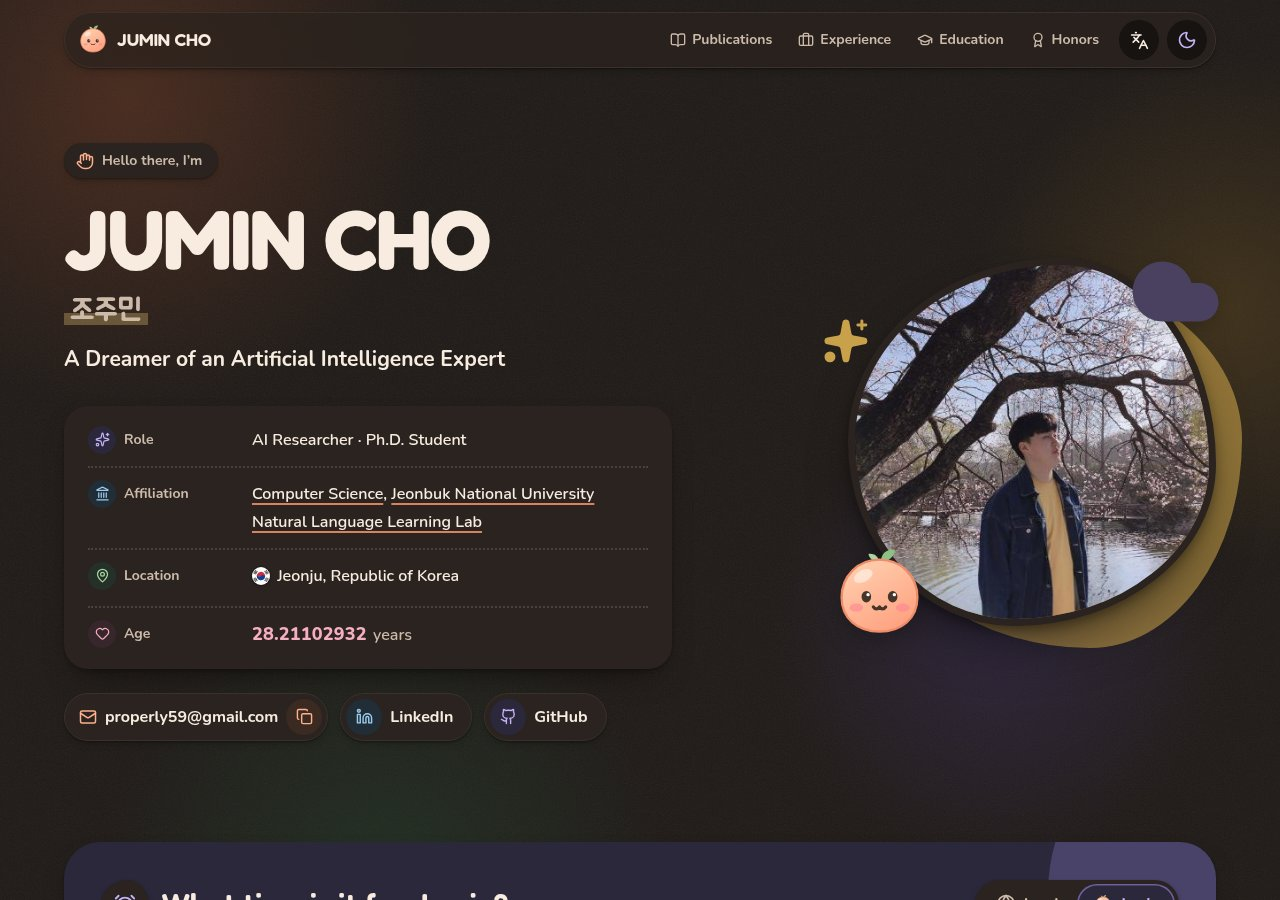
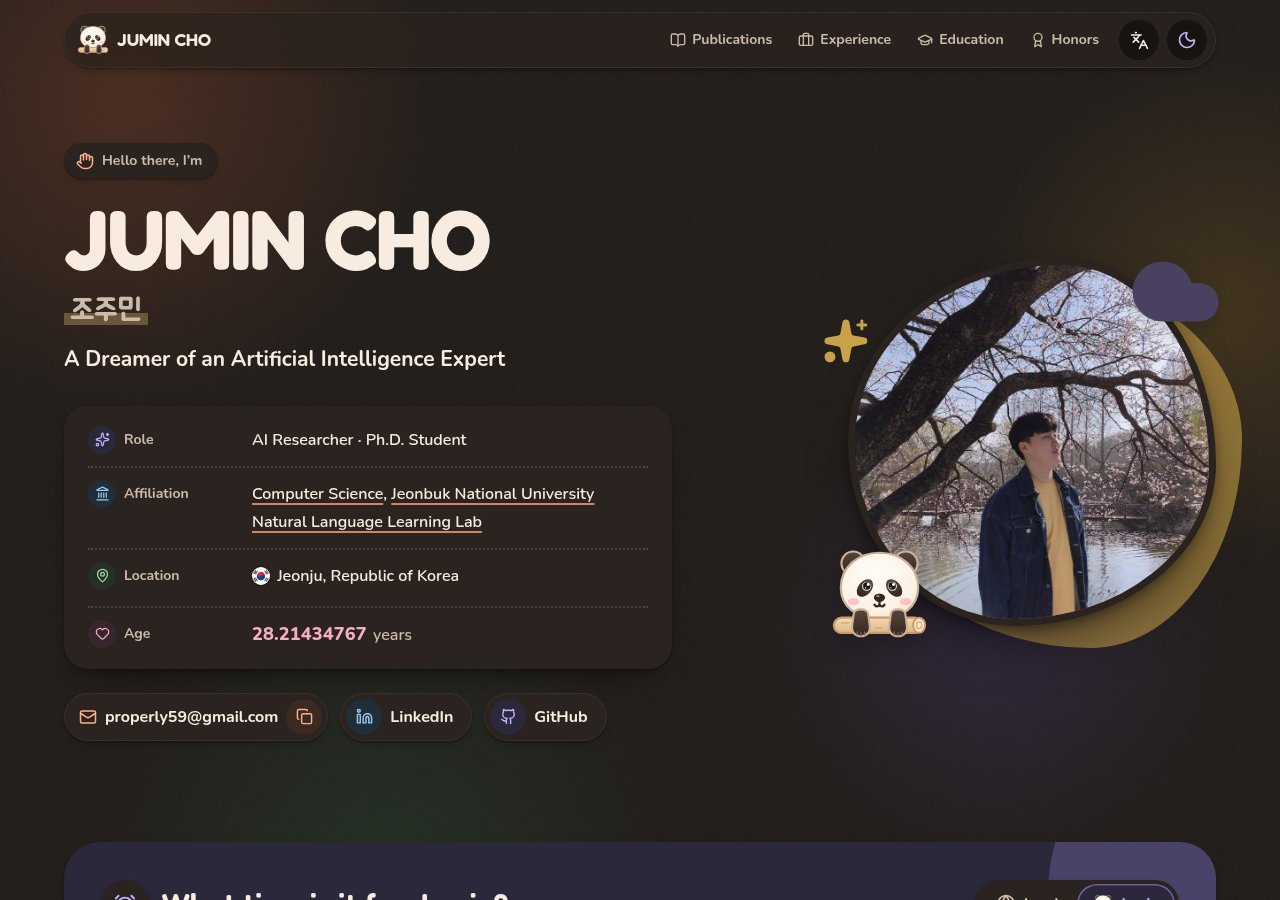
Make Mongle a panda cub with its paws over a log
The mascot in public/favicon.svg is now a fluffy panda cub, drawn from a
photo of one resting its front paws on a log: a cream face, cocoa ears,
eye patches and paws, glossy eyes, pink cheeks and a small log. A latte
outline keeps the ears and paws visible on dark backgrounds, and the
drawing still reads as a panda at 16 px.

- npm run icons redraws favicon.ico, the app icons and og-image.png.
- The README previews show the new hero; the five READMEs and DESIGN.md
  describe the panda. The name Mongle (몽글이) stays.

diff --git a/README.ja.md b/README.ja.md
@@ -14,7 +14,7 @@
 
 <picture>
   <source media="(prefers-color-scheme: dark)" srcset="docs/preview-dark.jpg" />
-  <img src="docs/preview-light.jpg" alt="最初の画面：クリーム色の背景に名前とプロフィールカード、その横に桜の下で撮った写真と桃のマスコット" />
+  <img src="docs/preview-light.jpg" alt="最初の画面：クリーム色の背景に名前とプロフィールカード、その横に桜の下で撮った写真とパンダのマスコット" />
 </picture>
 
 ## 特徴
@@ -24,7 +24,7 @@
 - 1998-07-10 から小数点以下 8 桁までリアルタイムで数える年齢カウンター。
 - ジュミンは今、何時？ 「ローカル | ジュミン」の切り替えスイッチが付いた時計カードが、ジュミンの時間（KST）か訪問者の時間を表示し、画面には出さない平日・週末の日課表から、ジュミンが今たぶん何をしているかを教えてくれます。たぶん… 仕事中、出勤準備中、おやすみ中、または観測されるまであらゆる状態が重なり合った、量子の重ね合わせ中。
 - 5 つの言語：English（既定）、简体中文、繁體中文、日本語、한국어。ヘッダーのメニューで選ぶと選択を覚えておき、`?lang=ja` のようなリンクでその言語のページを直接開けます。
-- 桃のお餅のマスコット、Mongle。ファビコン、アプリアイコン、リンクプレビュー（Open Graph）画像はすべてこの絵から作られます。
+- 丸太に前足をかけた、もふもふの子パンダのマスコット、Mongle。ファビコン、アプリアイコン、リンクプレビュー（Open Graph）画像はすべてこの絵から作られます。
 - 地名の前の丸い国旗ステッカー：ジュミンが拠点にしている場所と、各論文を発表した場所。
 - OS の設定に従い、自分で選ぶとそれを覚えるテーマ切り替え、メールアドレスのコピーボタン、印刷用スタイル。
 - モーション軽減の設定、スクリーンリーダー、キーボード操作に配慮し、すべての文字が WCAG AA 以上のコントラストを持ちます。

diff --git a/README.zh-HK.md b/README.zh-HK.md
@@ -14,7 +14,7 @@
 
 <picture>
   <source media="(prefers-color-scheme: dark)" srcset="docs/preview-dark.jpg" />
-  <img src="docs/preview-light.jpg" alt="網站第一個畫面：奶油色背景上的名字和資料卡，旁邊是在櫻花樹下拍的相片和桃子吉祥物" />
+  <img src="docs/preview-light.jpg" alt="網站第一個畫面：奶油色背景上的名字和資料卡，旁邊是在櫻花樹下拍的相片和熊貓吉祥物" />
 </picture>
 
 ## 特色
@@ -24,7 +24,7 @@
 - 由 1998-07-10 起即時計算、準確至小數點後 8 位的年齡計數器。
 - Jumin 那邊現在幾點？附有「本地 | Jumin」開關的時鐘卡會顯示 Jumin 的時間（KST）或訪客的時間，並根據不會在頁面上顯示的平日與週末作息表，告訴你 Jumin 現在也許在做甚麼：也許……在工作、在準備上班、在睡覺，或者處於量子疊加態——在被觀測之前，所有狀態同時存在。
 - 五種語言：English（預設）、简体中文、繁體中文、日本語和한국어，可在頁首的選單中選擇。選擇會被記住，`?lang=zh-HK` 這樣的連結可以直接以該語言開啟頁面。
-- 桃子麻糬吉祥物 Mongle。網站圖示（favicon）、應用程式圖示和連結預覽（Open Graph）圖片都出自這幅畫。
+- 把前爪搭在圓木上的毛茸茸熊貓寶寶吉祥物 Mongle。網站圖示（favicon）、應用程式圖示和連結預覽（Open Graph）圖片都出自這幅畫。
 - 地名前的圓形國旗貼紙：Jumin 所在的地方，以及每篇論文發表的地方。
 - 跟隨操作系統設定、手動選擇後會記住的主題切換，複製電郵按鈕，以及打印樣式。
 - 尊重「減少動態效果」設定、屏幕閱讀器和鍵盤導航，所有文字的對比度都達到 WCAG AA 或以上。

diff --git a/README.zh-CN.md b/README.zh-CN.md
@@ -14,7 +14,7 @@
 
 <picture>
   <source media="(prefers-color-scheme: dark)" srcset="docs/preview-dark.jpg" />
-  <img src="docs/preview-light.jpg" alt="首屏：奶油色背景上的名字和信息卡片，旁边是在樱花树下拍的照片和桃子吉祥物" />
+  <img src="docs/preview-light.jpg" alt="首屏：奶油色背景上的名字和信息卡片，旁边是在樱花树下拍的照片和熊猫吉祥物" />
 </picture>
 
 ## 特点
@@ -24,7 +24,7 @@
 - 从 1998-07-10 起实时计算、精确到小数点后 8 位的年龄计数器。
 - Jumin 那边现在几点？带有“本地 | Jumin”开关的时钟卡片会显示 Jumin 的时间（KST）或访客的时间，并根据不在页面上显示的工作日与周末作息表，告诉你 Jumin 现在也许在做什么：也许……在工作、在准备上班、在睡觉，或者处于量子叠加态——在被观测之前，所有状态同时存在。
 - 五种语言：English（默认）、简体中文、繁體中文、日本語和한국어，可在页头的菜单中选择。选择会被记住，`?lang=zh-CN` 这样的链接可以直接用该语言打开页面。
-- 桃子麻糬吉祥物 Mongle。网站图标（favicon）、应用图标和链接预览（Open Graph）图片都出自这幅画。
+- 把前爪搭在圆木上的毛茸茸熊猫宝宝吉祥物 Mongle。网站图标（favicon）、应用图标和链接预览（Open Graph）图片都出自这幅画。
 - 地名前的圆形国旗贴纸：Jumin 所在的地方，以及每篇论文发表的地方。
 - 跟随操作系统设置、手动选择后会记住的主题切换，复制邮箱按钮，以及打印样式。
 - 尊重“减弱动态效果”设置、屏幕阅读器和键盘导航，所有文字的对比度都达到 WCAG AA 或更高。

diff --git a/README.ko.md b/README.ko.md
@@ -14,7 +14,7 @@
 
 <picture>
   <source media="(prefers-color-scheme: dark)" srcset="docs/preview-dark.jpg" />
-  <img src="docs/preview-light.jpg" alt="첫 화면: 크림색 배경 위의 이름과 정보 카드, 그 옆에 벚꽃 아래에서 찍은 사진과 복숭아 마스코트" />
+  <img src="docs/preview-light.jpg" alt="첫 화면: 크림색 배경 위의 이름과 정보 카드, 그 옆에 벚꽃 아래에서 찍은 사진과 판다 마스코트" />
 </picture>
 
 ## 기능
@@ -28,8 +28,8 @@
   중, 출근 준비 중, 자는 중, 또는 관측되기 전까지 모든 상태가 겹쳐 있는 양자 중첩 중.
 - 다섯 가지 언어: English(기본), 简体中文, 繁體中文, 日本語, 한국어. 헤더의 메뉴에서 고르면 그 선택을
   기억하고, `?lang=ko` 같은 링크로 원하는 언어의 페이지를 바로 열 수 있습니다.
-- 복숭아 모찌 마스코트 몽글이. 파비콘, 앱 아이콘, 링크 미리보기(Open Graph) 이미지가 모두 이 그림에서
-  나옵니다.
+- 통나무에 앞발을 걸친 복슬복슬한 아기 판다 마스코트 몽글이. 파비콘, 앱 아이콘, 링크 미리보기(Open Graph)
+  이미지가 모두 이 그림에서 나옵니다.
 - 장소 앞의 동그란 국기 스티커: 주민의 위치와 각 논문을 발표한 곳.
 - 운영체제 설정을 따르다가 직접 고르면 그 값을 기억하는 테마 토글, 이메일 복사 버튼, 인쇄용 스타일.
 - 모션 줄이기, 스크린리더, 키보드 탐색을 존중하고, 모든 글자가 WCAG AA 이상의 대비를 갖습니다.

diff --git a/docs/DESIGN.md b/docs/DESIGN.md
@@ -103,8 +103,11 @@ AI 연구자이자 박사과정생 조주민의 한 페이지 프로필입니다
   않습니다. 스크린리더는 언제나 실제 이름을 읽습니다. 터치에서는 스크롤로만 바뀝니다.
 - **실시간 나이.** 1998-07-10 00:00 KST부터 센 나이를 소수점 8자리로 보여 줍니다. 100ms마다 DOM에 직접 그리고
   React는 다시 렌더링하지 않습니다. 모션 줄이기에서는 1초마다 갱신합니다. 스크린리더에는 만 나이만 알려 줍니다.
-- **마스코트 몽글이.** 새싹이 달린 복숭아 모찌입니다. 원본은 `public/favicon.svg` 한 파일이고, 파비콘, 헤더, 사진
-  옆, 시계 스위치, 푸터, 앱 아이콘, OG 이미지에 모두 같은 그림을 씁니다.
+- **마스코트 몽글이.** 통나무에 앞발을 걸친 복슬복슬한 아기 판다입니다. 털은 크림색, 귀와 눈 둘레와 앞발은 짙은
+  코코아색(순수한 검정이 아님)이고, 볼에는 파스텔 분홍 볼터치가 있습니다. 모든 윤곽에 라테색 테두리를 둘러서
+  어두운 배경에서도 귀와 앞발이 묻히지 않습니다. 원본은 `public/favicon.svg` 한 파일이고, 파비콘, 헤더, 사진 옆,
+  시계 스위치, 푸터, 앱 아이콘, OG 이미지에 모두 같은 그림을 씁니다. 16px에서도 판다 얼굴로 읽혀야 하니 작은
+  장식을 더하지 않습니다.
 - **Jumin 시계.** 아래 "Jumin 시계" 절을 따릅니다. 모든 상태 앞에는 "maybe…"(또는 페이지 언어에서 같은 뜻의
   말)를 붙입니다.
 

diff --git a/README.md b/README.md
@@ -15,7 +15,7 @@ English · [简体中文](README.zh-CN.md) · [繁體中文](README.zh-HK.md) ·
 
 <picture>
   <source media="(prefers-color-scheme: dark)" srcset="docs/preview-dark.jpg" />
-  <img src="docs/preview-light.jpg" alt="The first screen: the name and a fact card on a cream background, next to a photo under cherry blossoms and a peach mascot" />
+  <img src="docs/preview-light.jpg" alt="The first screen: the name and a fact card on a cream background, next to a photo under cherry blossoms and a panda mascot" />
 </picture>
 
 ## Features
@@ -31,8 +31,8 @@ English · [简体中文](README.zh-CN.md) · [繁體中文](README.zh-HK.md) ·
 - Five languages: English (the default), 简体中文, 繁體中文, 日本語 and 한국어, picked from a menu
   in the header. The choice is remembered, and a link such as `?lang=ja` opens the page in that
   language.
-- Mongle the mascot, a peach mochi that becomes the favicon, the app icons and the link-preview
-  (Open Graph) image.
+- Mongle the mascot, a fluffy panda cub with its paws over a log, which becomes the favicon, the
+  app icons and the link-preview (Open Graph) image.
 - Round flag stickers in front of places: where Jumin is based, and where each paper was presented.
 - A theme toggle that follows the operating system until you pick one, a copy-email button and
   print styles.
